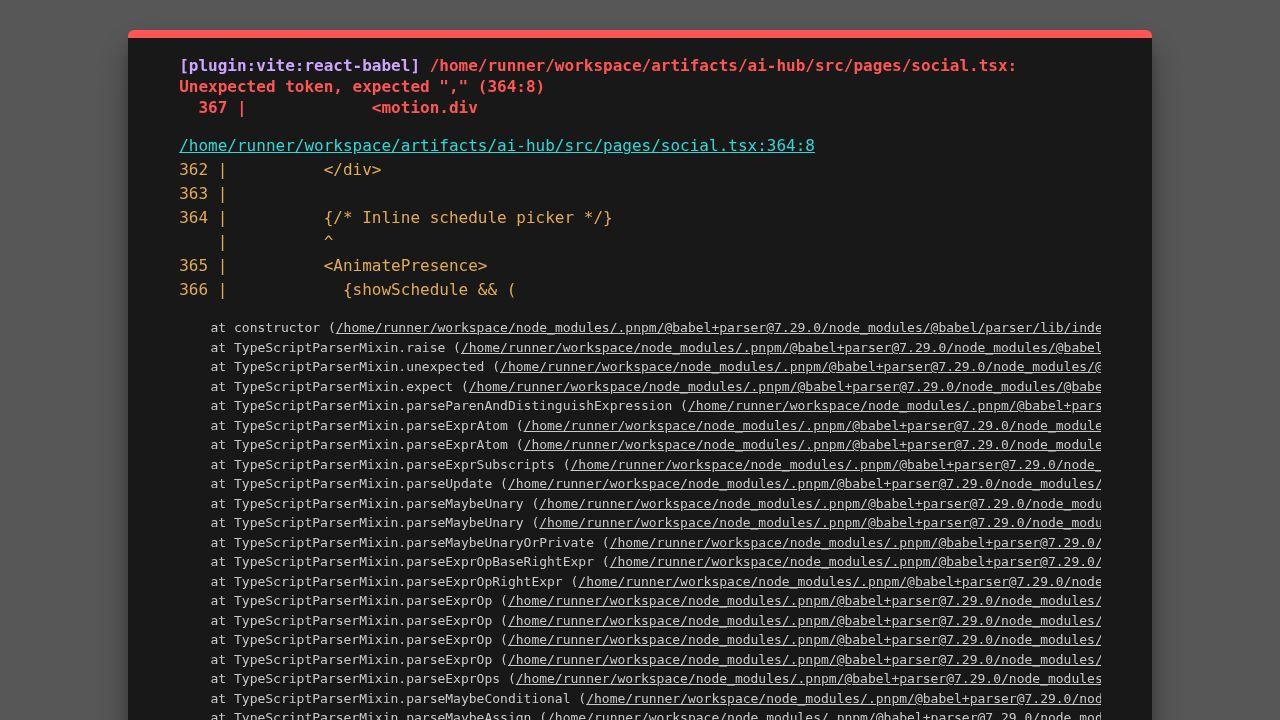
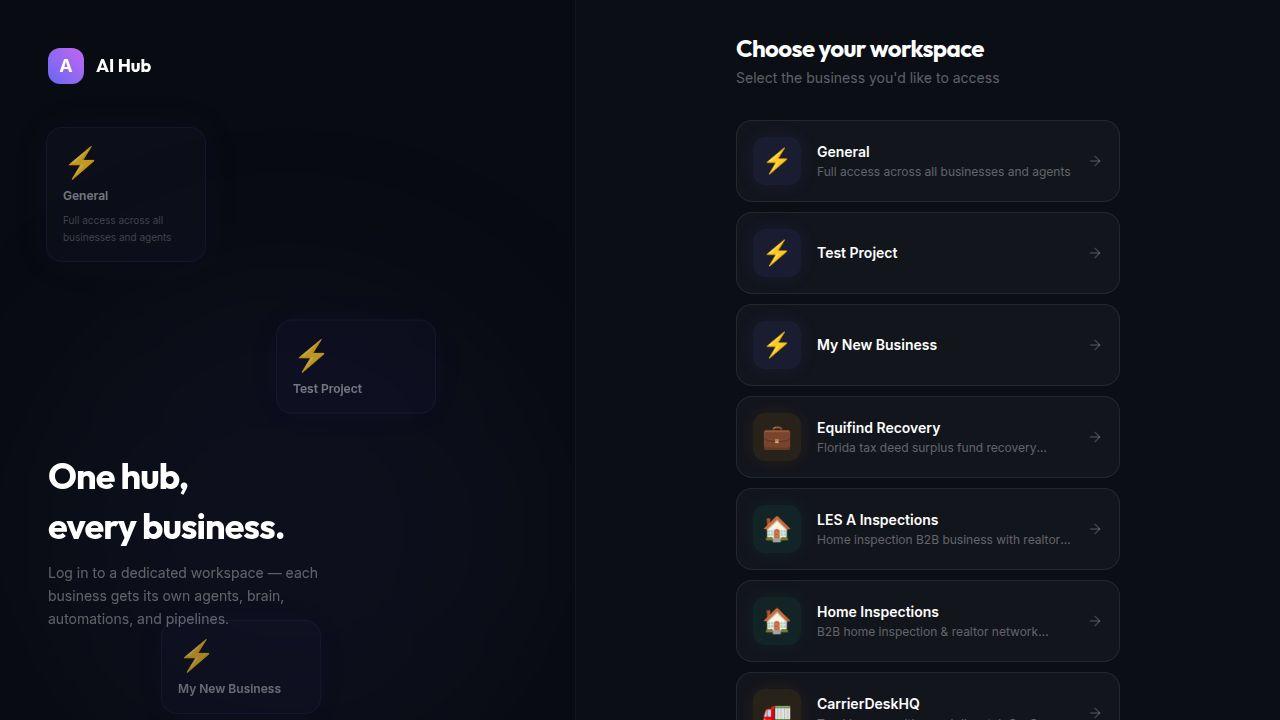
Add ability to refresh Facebook access tokens for future use
Add POST /token-refresh endpoint to the LESA Facebook router to refresh Facebook access tokens using getValidPageToken.

Replit-Commit-Author: Agent
Replit-Commit-Session-Id: 963112e1-af25-4785-8665-29132b123909
Replit-Commit-Checkpoint-Type: full_checkpoint
Replit-Commit-Event-Id: 2a5e097c-794d-455c-8581-f212b38f6a2c
Replit-Commit-Screenshot-Url: https://storage.googleapis.com/screenshot-production-us-central1/df4887c9-4122-429d-b791-f987bd3d90c8/963112e1-af25-4785-8665-29132b123909/K8DfpQE
Replit-Helium-Checkpoint-Created: true

diff --git a/artifacts/api-server/src/routes/lesa-fb.ts b/artifacts/api-server/src/routes/lesa-fb.ts
@@ -8,7 +8,7 @@ import { runCycle, startLesaFbSchedule, stopLesaFbSchedule } from "../lib/lesa-f
 import { loadState, saveState } from "../lib/lesa-fb/state";
 import { generatePost, nextTheme } from "../lib/lesa-fb/contentEngine";
 import { checkBrandSafety } from "../lib/lesa-fb/brandSafety";
-import { tokenHealth } from "../lib/lesa-fb/tokenManager";
+import { tokenHealth, getValidPageToken } from "../lib/lesa-fb/tokenManager";
 
 const router = Router();
 
@@ -75,12 +75,22 @@ router.post("/schedule/stop", (_req, res) => {
   res.json({ ok: true });
 });
 
-// ── Token health (for future fully-autonomous mode) ──────────────────────────
+// ── Token health ─────────────────────────────────────────────────────────────
 router.get("/token-health", async (_req, res) => {
   try {
     res.json(await tokenHealth());
   } catch (err) {
     res.status(500).json({ error: String(err) });
+  }
+});
+
+// ── Force token bootstrap / refresh ──────────────────────────────────────────
+router.post("/token-refresh", async (_req, res) => {
+  try {
+    await getValidPageToken();
+    res.json({ ok: true, health: await tokenHealth() });
+  } catch (err) {
+    res.status(500).json({ ok: false, error: String(err) });
   }
 });
 